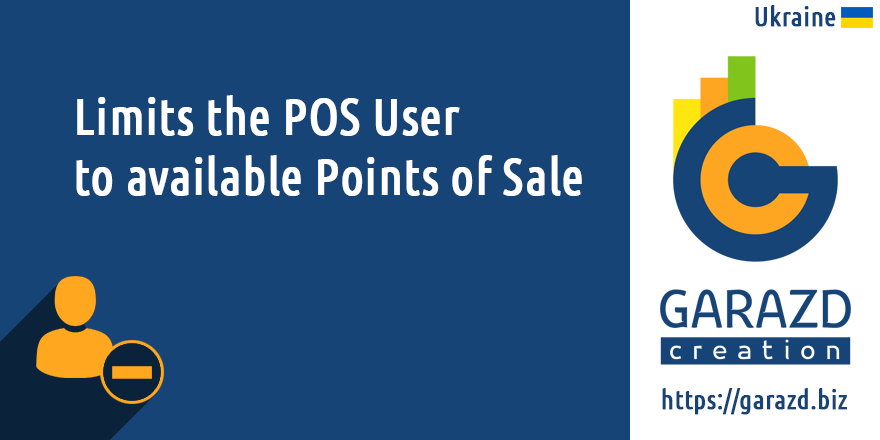
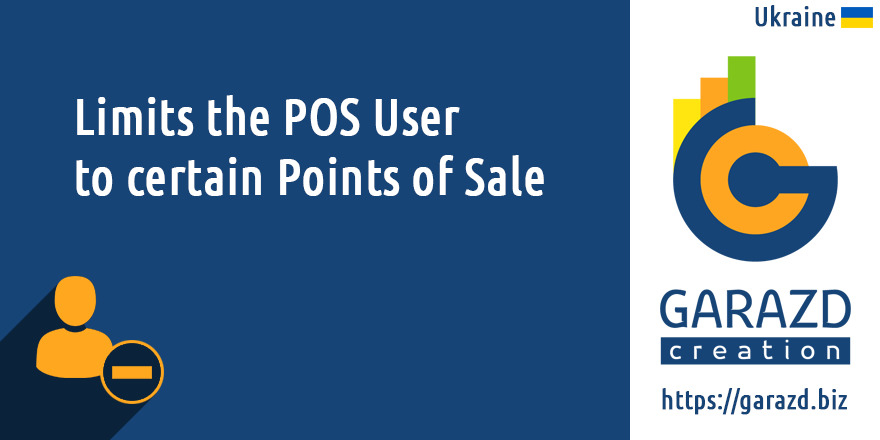
[ADD] pos_user_restrict: README.rst

Changed region(s): [[0.1227, 0.3545, 0.675, 0.4432]]

diff --git a/pos_user_restrict/README.rst b/pos_user_restrict/README.rst
@@ -1,0 +1,29 @@
+==================================================================
+Restriction of POS User
+==================================================================
+
+Allows setting the available Points of Sale for POS users and restricts access for other Points.
+
+Restrictions work only for users with role **Point of Sale / User**.
+After configuration, users will be able to see only the available Points of Sale and POS orders related to these Points.
+Users with role **Point of Sale / Manager** can view all Points of Sale and all POS orders.
+
+
+Configuration
+=============
+
+Goto **Settings** \> **Users** \> **Users**.
+Choose the user and set available Points of Sale on tab **Point of Sale**.
+
+In order for the restrictions to take effect, you must reassign the user role. Then return the previous role back.
+
+>Or the administrator can restart the odoo-server service.
+
+
+Support and development
+=======================
+
+Contact us:
+
+* support@garazd.biz
+* https://garazd.biz/page/contactus
